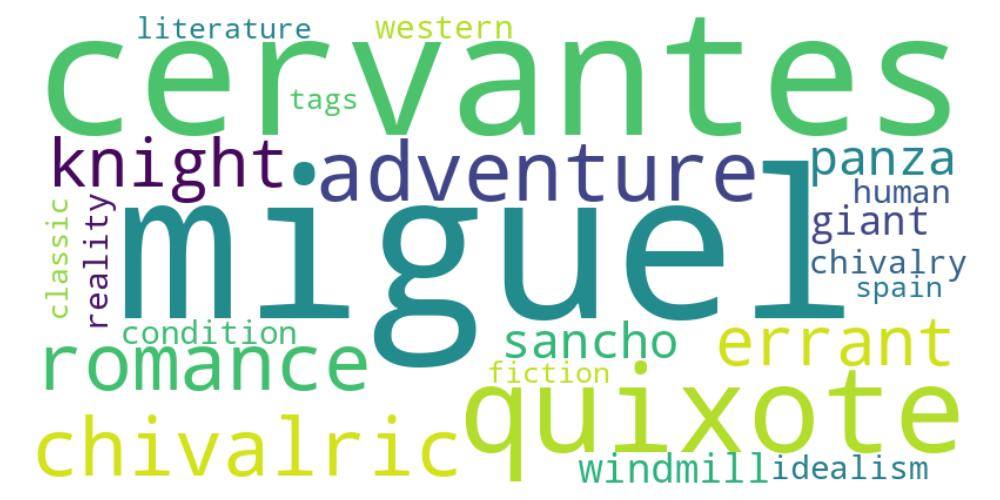
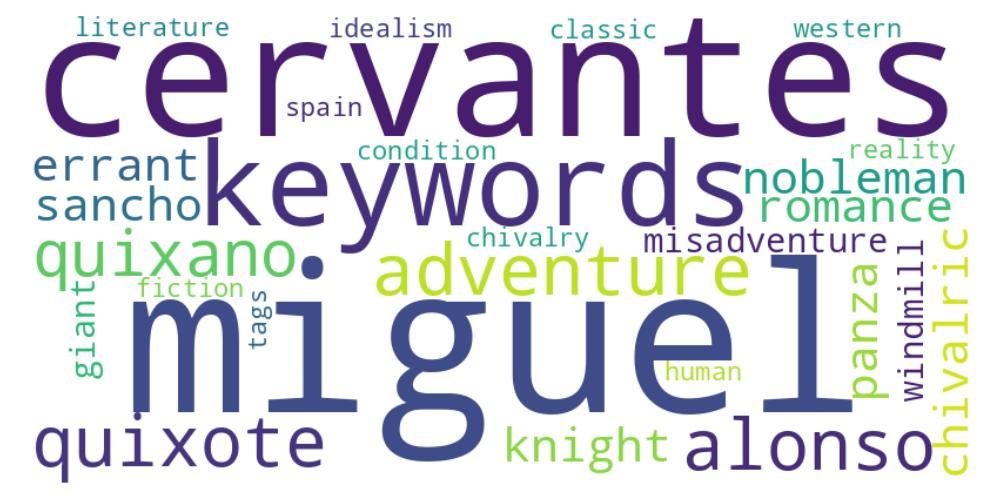
chore: commit save point

diff --git a/main.py b/main.py
@@ -36,7 +36,7 @@ def generate_tag_cloud(keywords: str, output_path: str):
     keywords_list = [kw.strip() for kw in keywords_list if kw.strip()]  # Filtramos palabras vacías y espacios
 
     # Eliminamos líneas no válidas como "### tags" o caracteres extraños
-    keywords_list = [kw for kw in keywords_list if not kw.lower().startswith("###")]
+    keywords_list = [kw.split("###")[0].strip() for kw in keywords_list if "###" not in kw.lower()]
 
     # Procesamos los valores de los tags para extraer solo el contenido después de ":"
     processed_keywords = []
